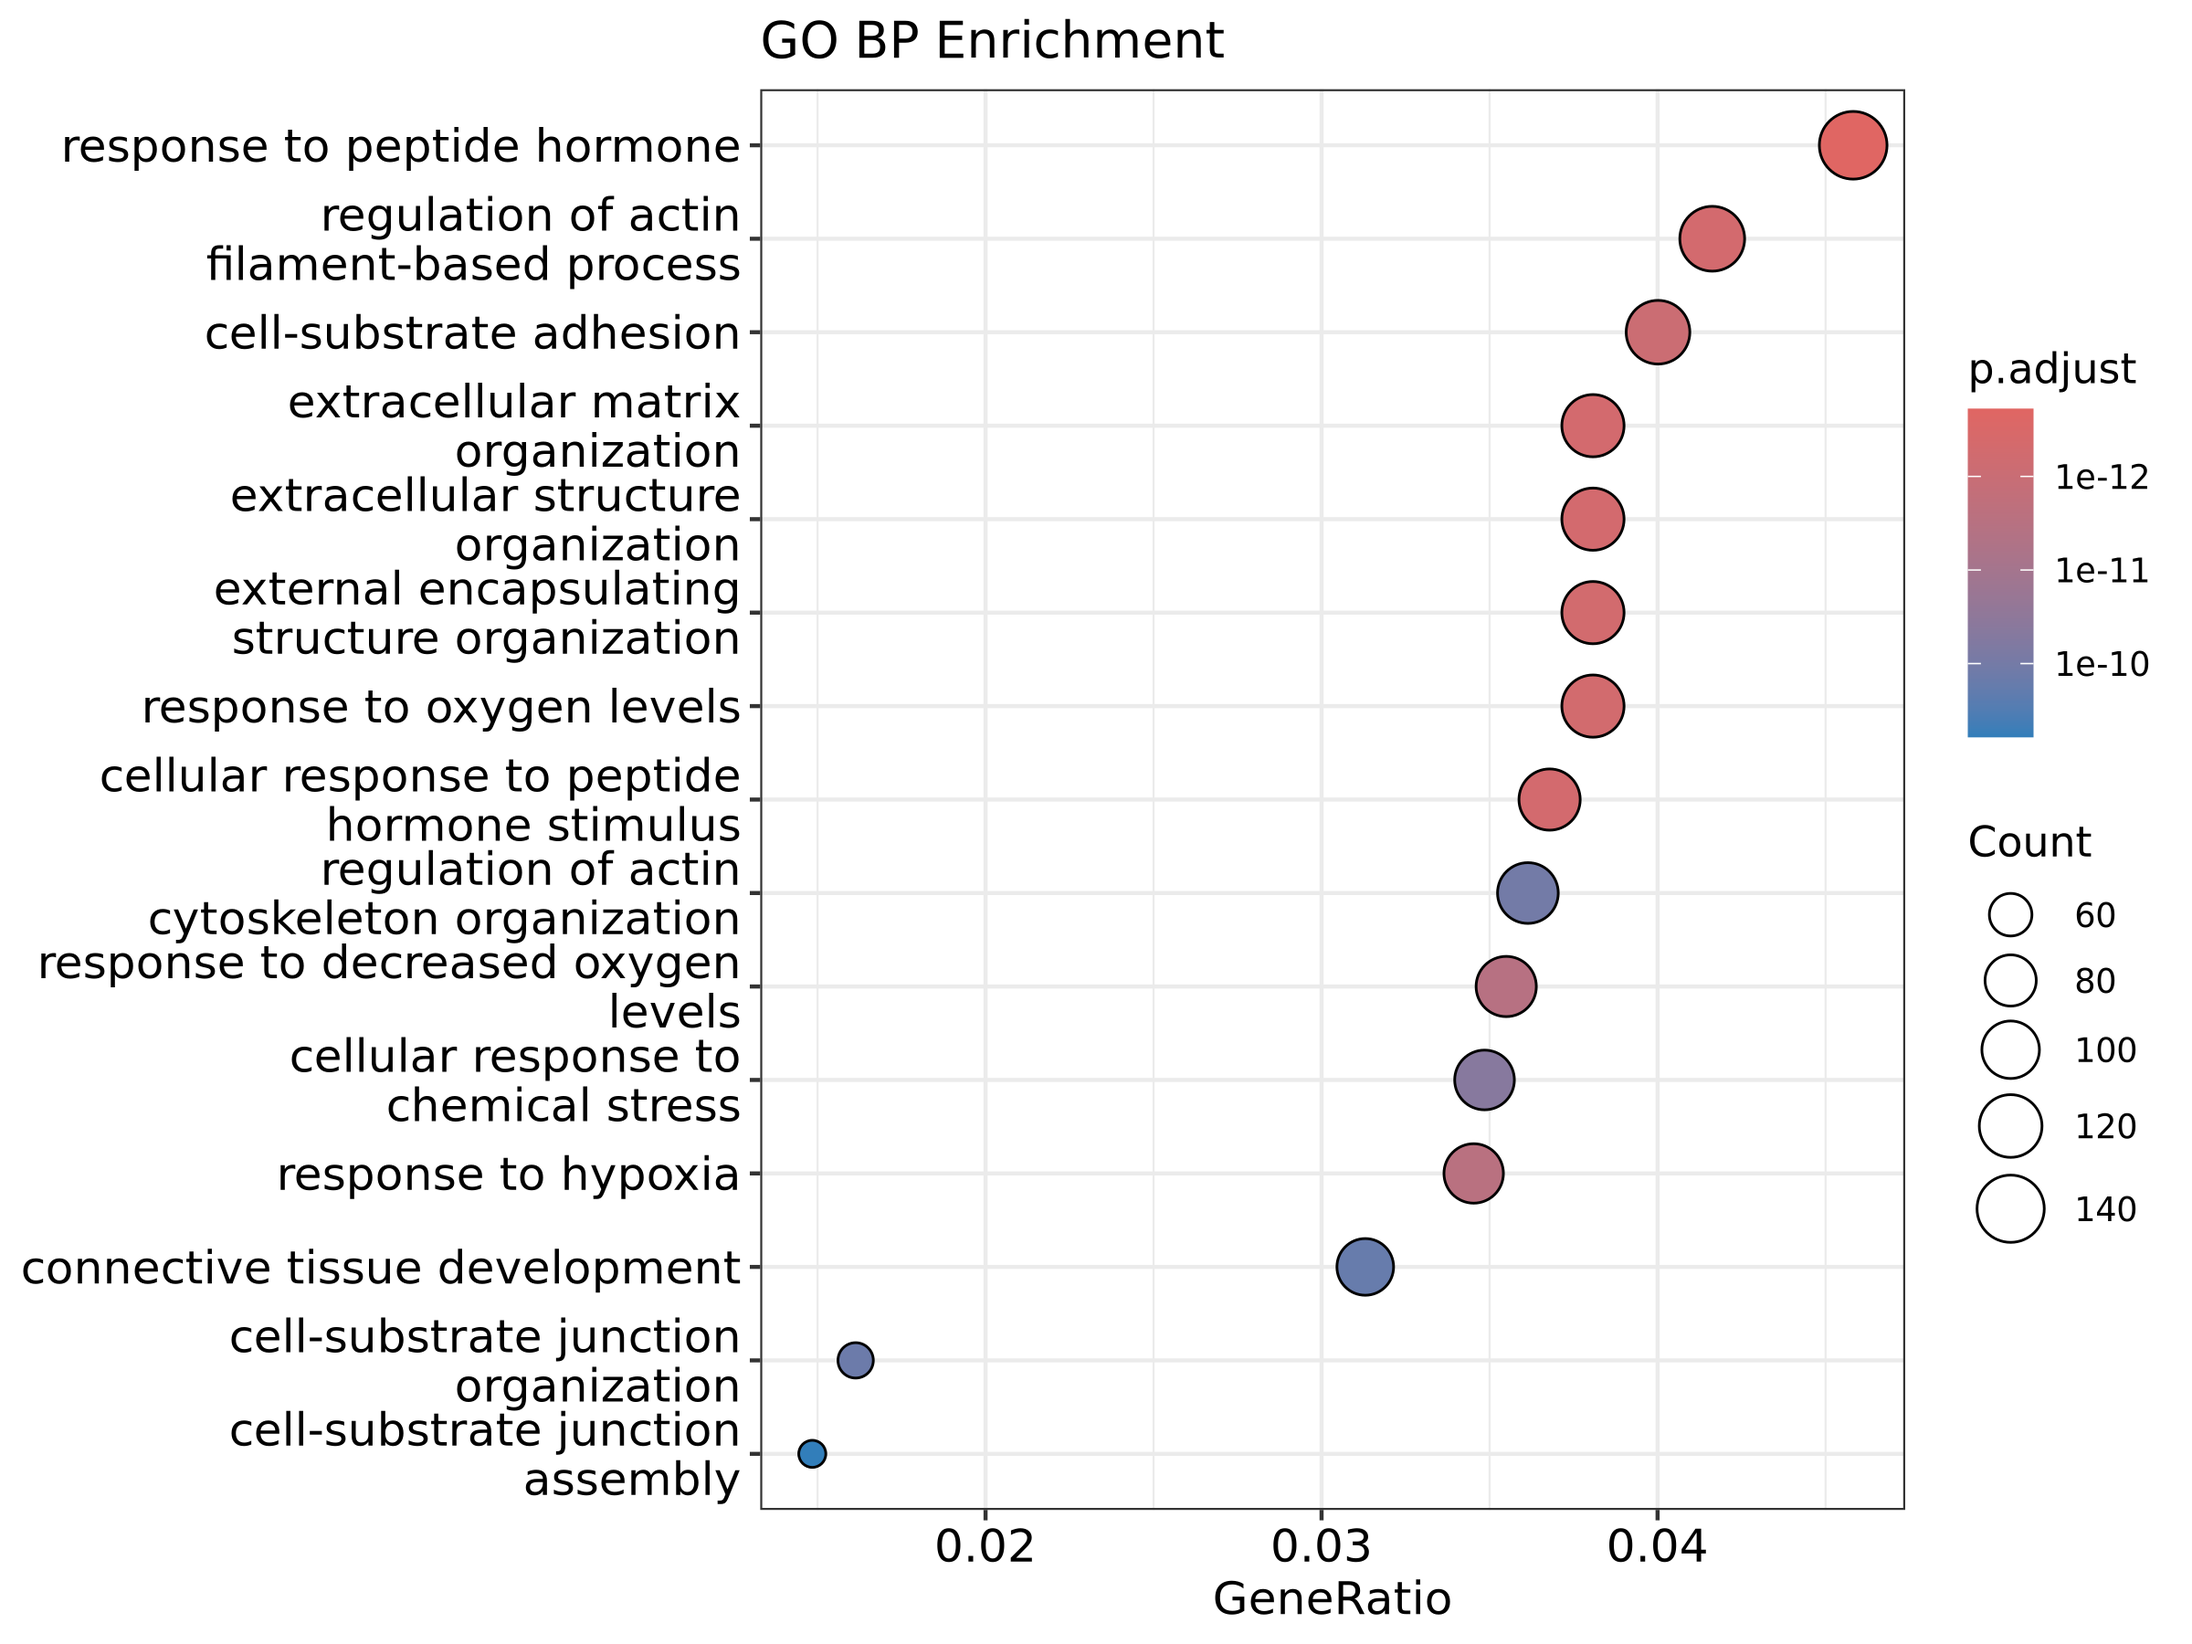
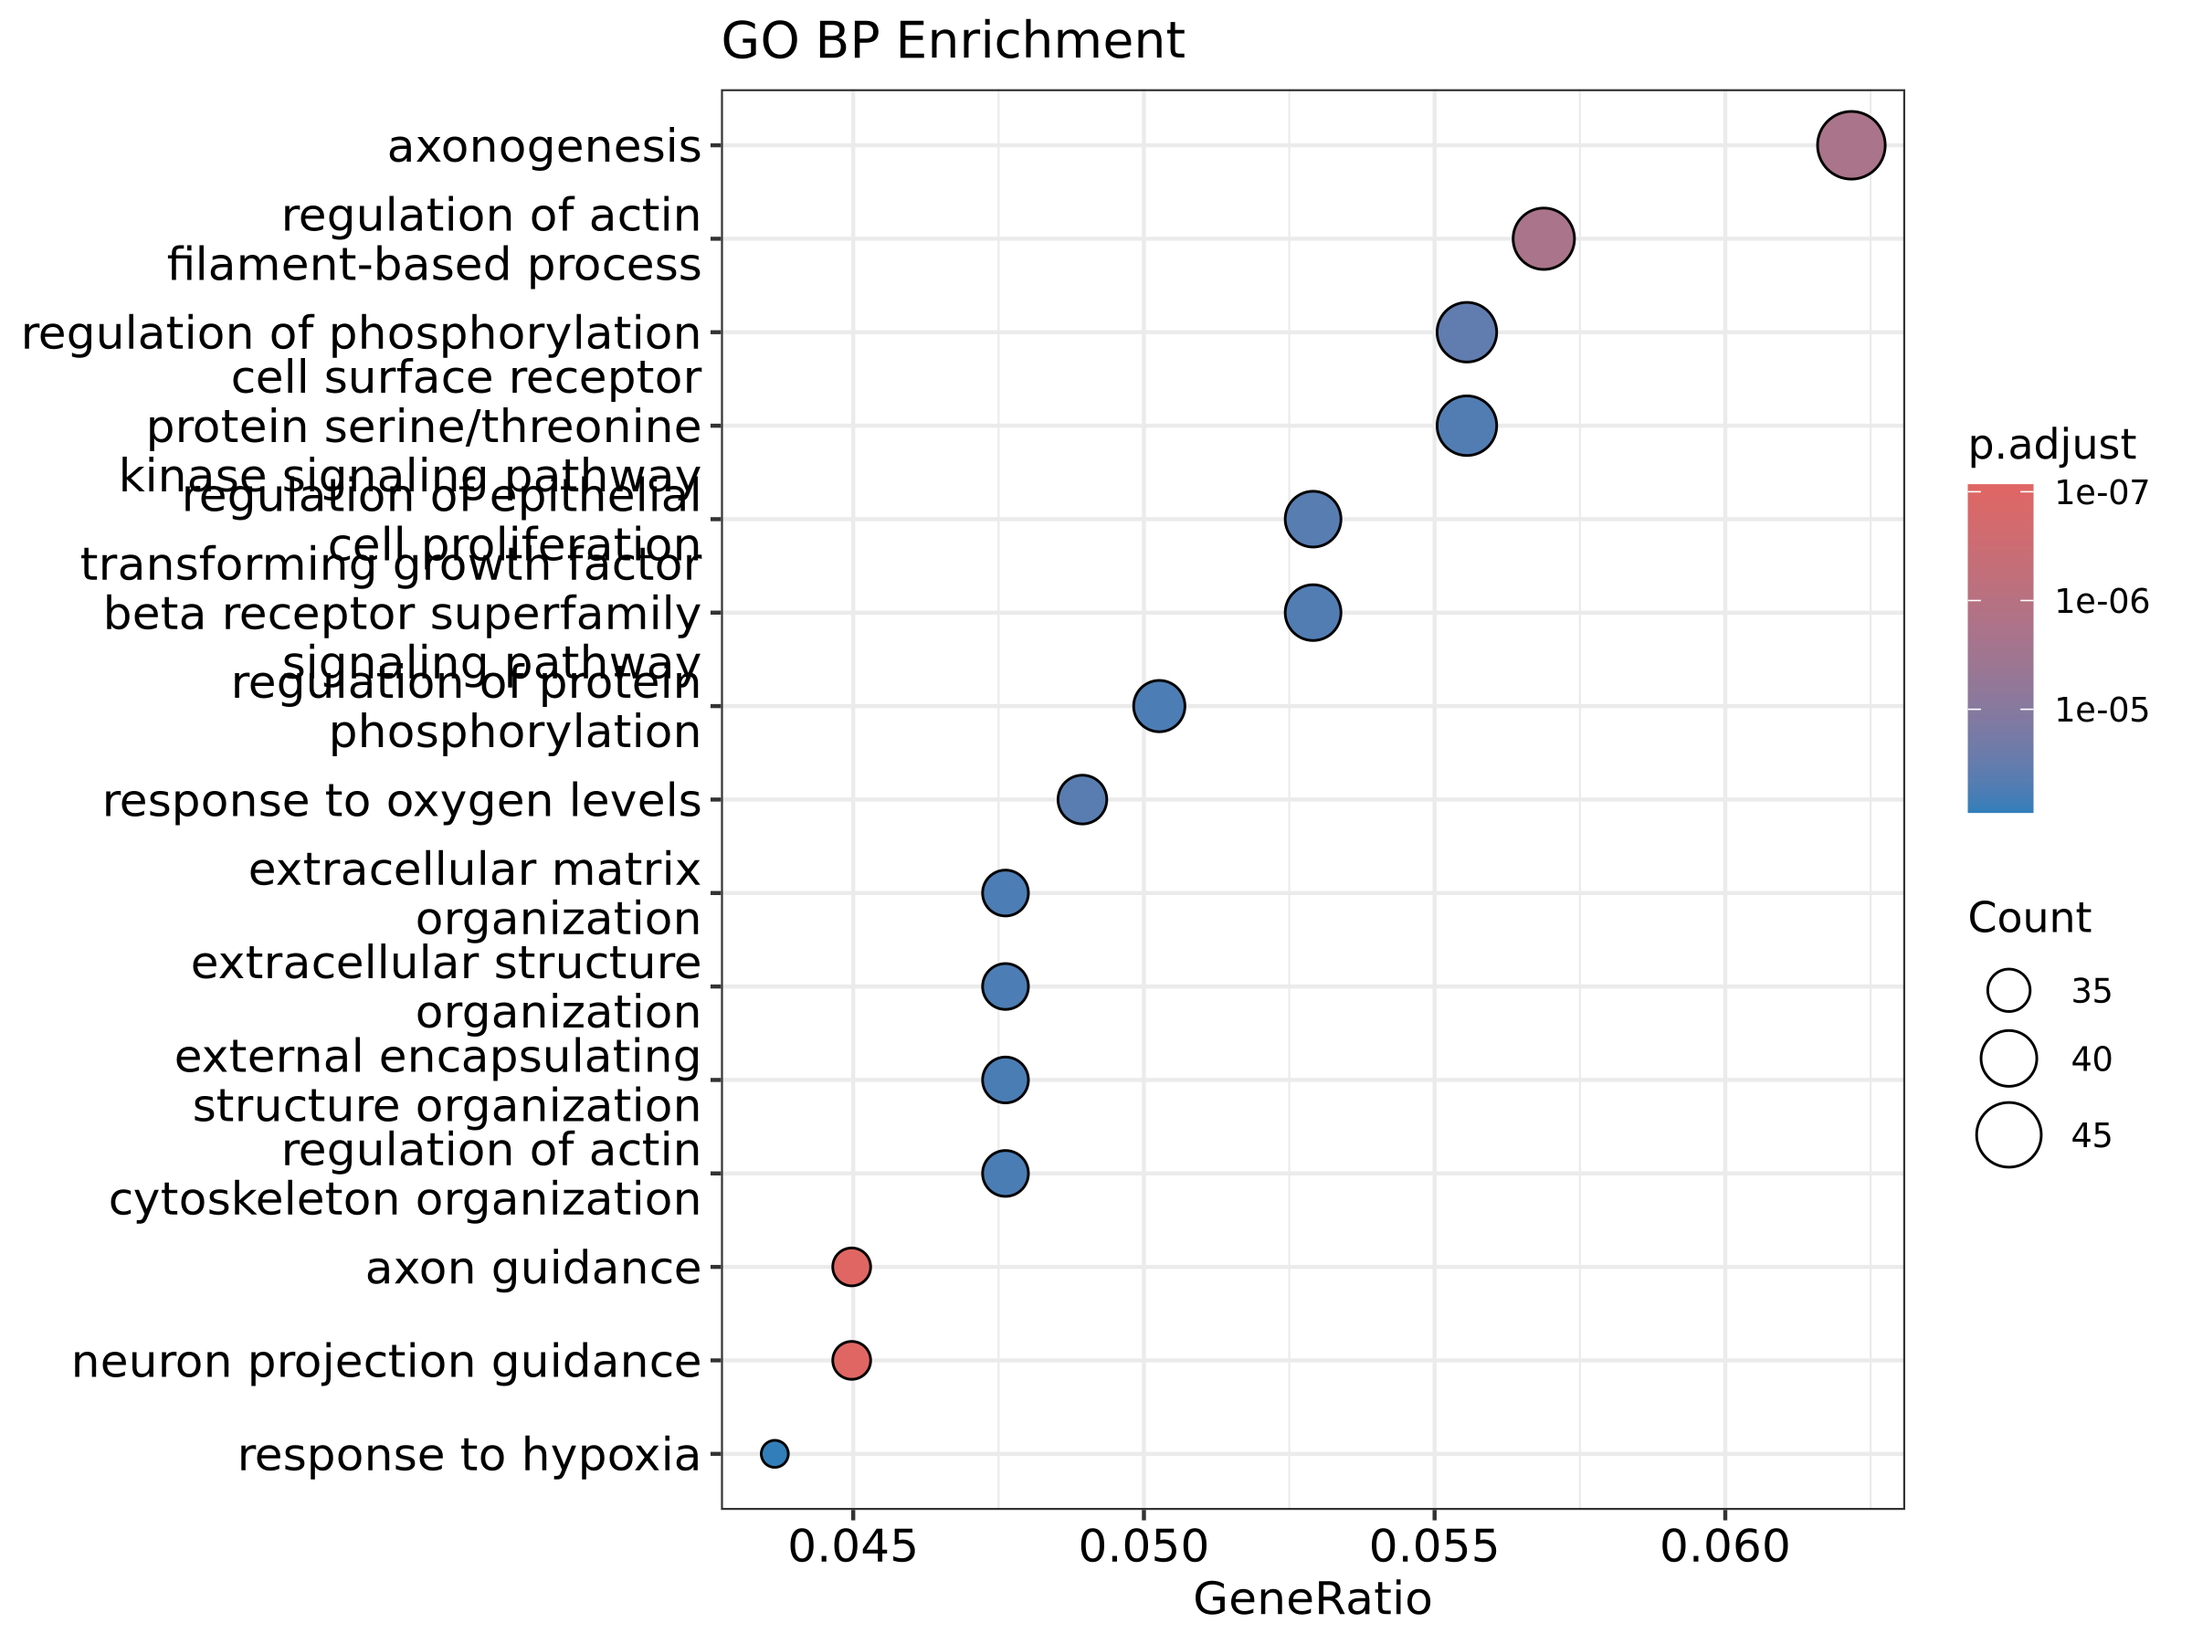
Use effect-size cutoff for enrichment analysis

diff --git a/rnaseq_salmon_guide.md b/rnaseq_salmon_guide.md
@@ -257,7 +257,7 @@ Rscript scripts/deseq2.R
 Rscript scripts/enrichment.R
 ```
 
-脚本从 `deseq2_results.txt` 中提取 `padj < 0.05` 的基因，使用 clusterProfiler 完成 GO BP 和 KEGG ORA，并输出：
+脚本从 `deseq2_results.txt` 中提取同时满足 `padj < 0.05` 和 `|log2FC| > 1` 的基因，使用 clusterProfiler 完成 GO BP 和 KEGG ORA，并输出：
 
 - `results/GO_BP_enrichment.txt`
 - `results/KEGG_enrichment.txt`
@@ -297,8 +297,9 @@ Rscript scripts/plot_ggplot2.R
 - `results/deseq2_results.txt` 包含 34,712 个基因的差异分析结果。
 - 按 `padj < 0.05` 统计得到 3,387 个显著基因，其中上调 1,843 个、下调 1,544 个。
 - 同时要求 `|log2FC| > 1` 时，得到上调 441 个、下调 403 个。
+- GO/KEGG 富集分析使用同时满足 `padj < 0.05` 和 `|log2FC| > 1` 的 844 个基因。
 - 当前结果中 ZBTB16 的 `log2FC = +5.68`、`padj = 3.79e-130`，按 `padj` 排序为第 1；靠前基因还包括 DUSP1、NEXN 和 SAMHD1。
-- GO BP 和 KEGG 结果表及气泡图正常生成。本机运行快照为 GO 1,350 条、KEGG 141 条，重新运行可能变化。
+- GO BP 和 KEGG 结果表及气泡图正常生成。本机运行快照为 GO 611 条、KEGG 29 条，重新运行可能变化。
 
 可使用以下命令检查样本表、映射表、结果规模和主要统计量：
 
@@ -307,7 +308,7 @@ test -s results/coldata.txt
 test -s results/tx2gene.tsv
 test -s results/id2name.tsv
 wc -l results/tx2gene.tsv results/id2name.tsv results/deseq2_results.txt
-Rscript -e 'res <- read.delim("results/deseq2_results.txt", row.names = 1); sig <- !is.na(res$padj) & res$padj < 0.05; cat("genes:", nrow(res), "significant:", sum(sig), "up:", sum(sig & res$log2FoldChange > 0), "down:", sum(sig & res$log2FoldChange < 0), "\n")'
+Rscript -e 'res <- read.delim("results/deseq2_results.txt", row.names = 1); sig <- !is.na(res$padj) & res$padj < 0.05; effect <- sig & abs(res$log2FoldChange) > 1; cat("genes:", nrow(res), "significant:", sum(sig), "effect:", sum(effect), "up:", sum(sig & res$log2FoldChange > 0), "down:", sum(sig & res$log2FoldChange < 0), "\n")'
 ```
 
 注意：当前 `deseq2_results.txt` 第一列是基因 ID，但表头没有单独的 `gene_id` 列。项目内 R 脚本按行名读取；使用 pandas 等其他工具时需要通过 `index_col=0` 或等价方式处理。后续可考虑在脚本中显式输出 `gene_id` 列。

diff --git a/README.md b/README.md
@@ -57,7 +57,7 @@ rnaseq-project/
 - 若在 `padj < 0.05` 的基础上再要求 `|log2FC| > 1`，则得到上调 **441 个**、下调 **403 个**。
 - 按 `padj` 排序，靠前的基因包括 **ZBTB16**、**DUSP1** 和 **NEXN**。
 - **ZBTB16** 是最显著的上调基因：`log2FC = +5.68`，`padj = 3.79e-130`。
-- 本次 GO BP 结果包含 **1,350 个显著条目**，KEGG 结果包含 **141 条显著通路**。在线数据库更新或重新运行可能产生变化。
+- 富集分析使用同时满足 `padj < 0.05` 和 `|log2FC| > 1` 的 **844 个基因**；本次 GO BP 结果包含 **611 个显著条目**，KEGG 结果包含 **29 条显著通路**。在线数据库更新或重新运行可能产生变化。
 
 ## 结果输出
 
@@ -77,7 +77,7 @@ rnaseq-project/
 
 ## 结果解释
 
-`padj` 是经过 Benjamini-Hochberg 多重检验校正后的显著性指标，不包含效应量阈值。`log2FC` 表示处理组相对于对照组的表达变化幅度，正值为上调、负值为下调。因此，3,387 个显著基因与 844 个同时满足 `|log2FC| > 1` 的基因属于两个不同的筛选层级，应分别说明。
+`padj` 是经过 Benjamini-Hochberg 多重检验校正后的显著性指标，不包含效应量阈值。`log2FC` 表示处理组相对于对照组的表达变化幅度，正值为上调、负值为下调。因此，3,387 个显著基因与 844 个同时满足 `|log2FC| > 1` 的基因属于两个不同的筛选层级，应分别说明。当前 GO/KEGG 富集分析采用后者，以同时控制统计显著性和最小效应量。
 
 当前 `deseq2.R` 使用 `design=~cell + condition` 配对模型：GSE52778 的 4 个细胞系（N61311、N052611、N080611、N061011）各含一对处理/对照样本，模型中先扣除细胞系基线表达差异，再估计地塞米松处理效应，符合该数据集的配对实验设计。
 
